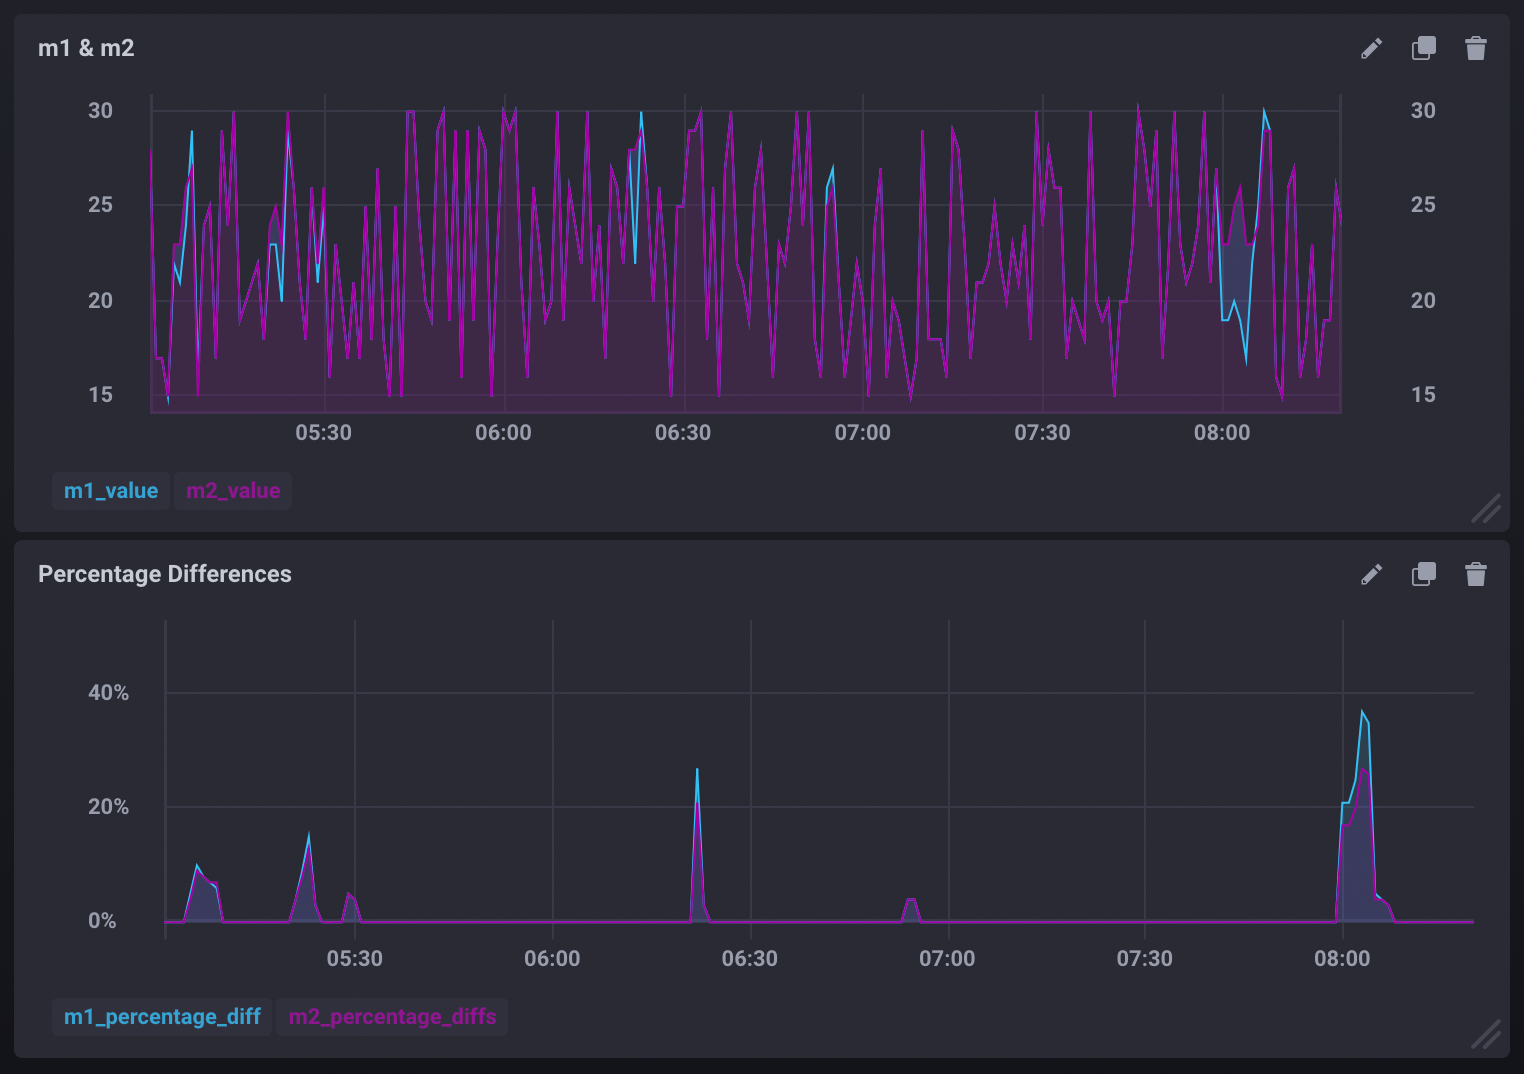
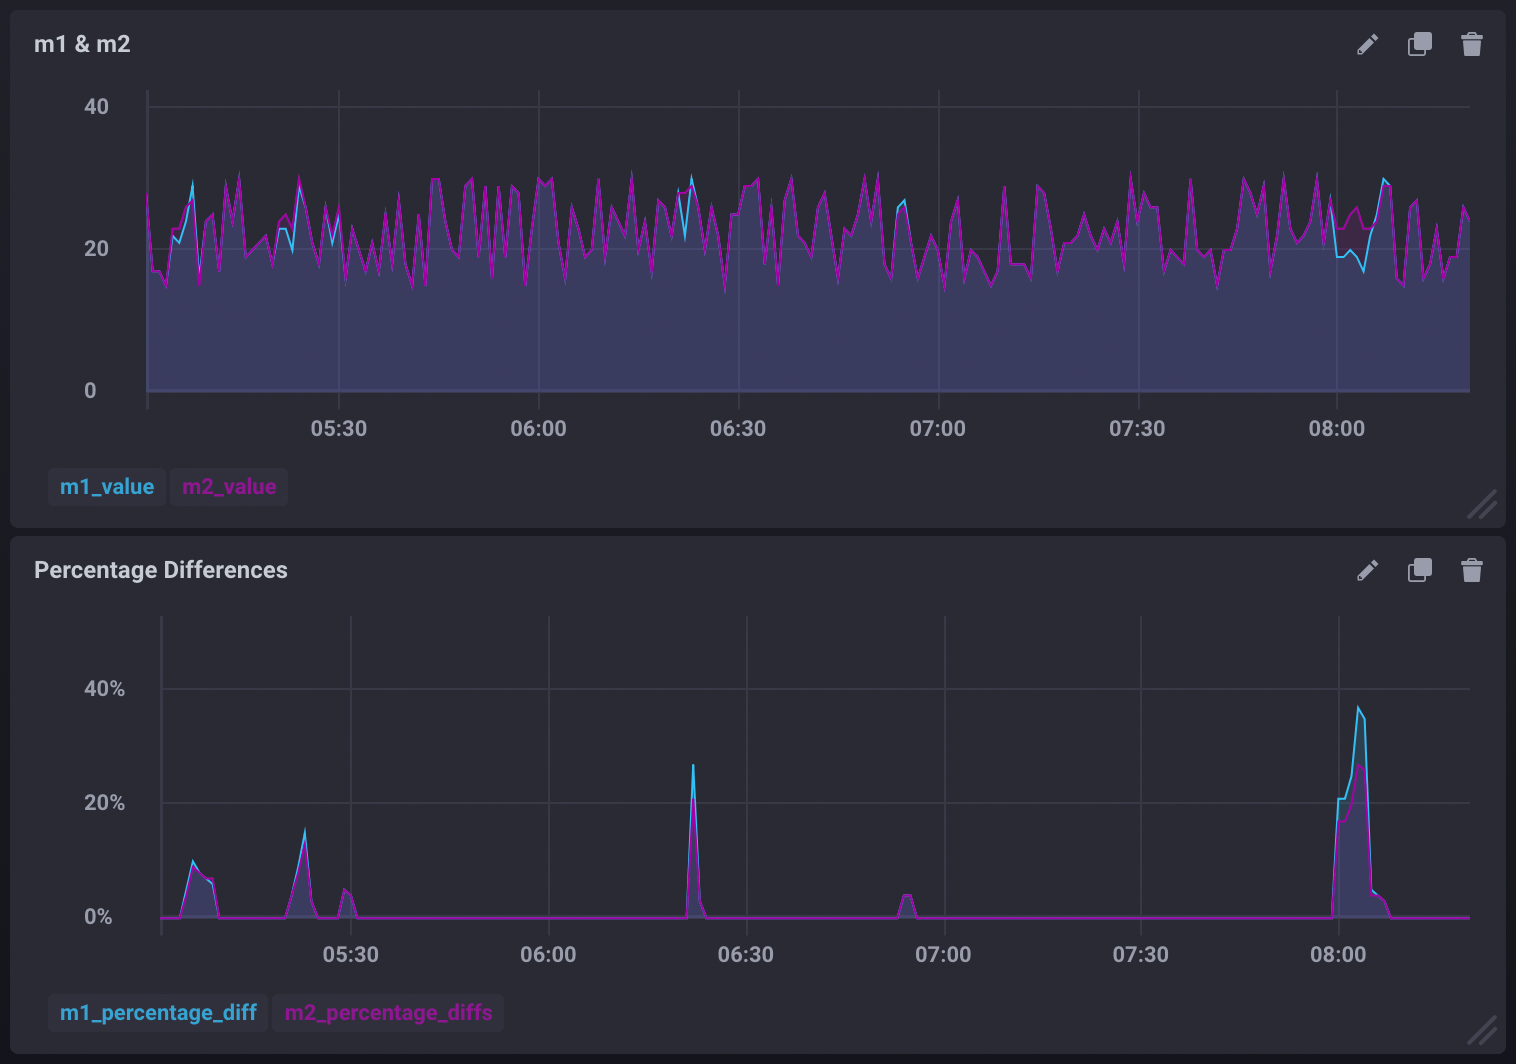
updated two-measurement alert graphs image

diff --git a/content/kapacitor/v1.5/guides/two-measurement-alert.md b/content/kapacitor/v1.5/guides/two-measurement-alert.md
@@ -81,7 +81,7 @@ data
 
 This can be used to create visualizations similar to:
 
-![Graphing the percentage difference between two measurements](/img/kapacitor/comparing-two-measurements.png)
+<img src='/img/kapacitor/comparing-two-measurements.png' alt='Graphing the percentage difference between two measurements' style='width: 100%; max-width: 800px;'>
 
 ## The full TICKscript
 Below is the entire, uncommented TICKscript:
